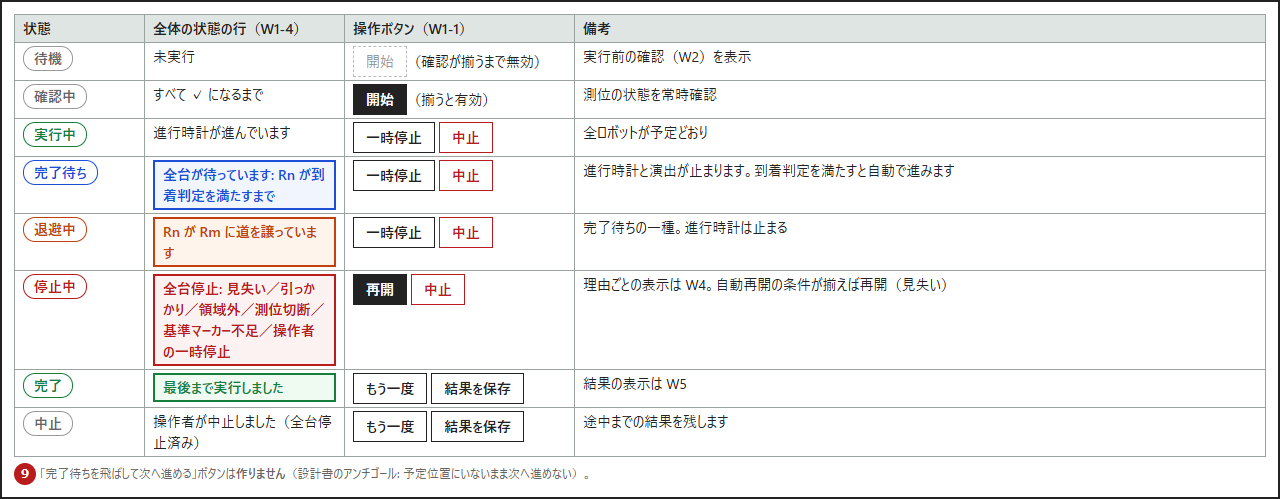
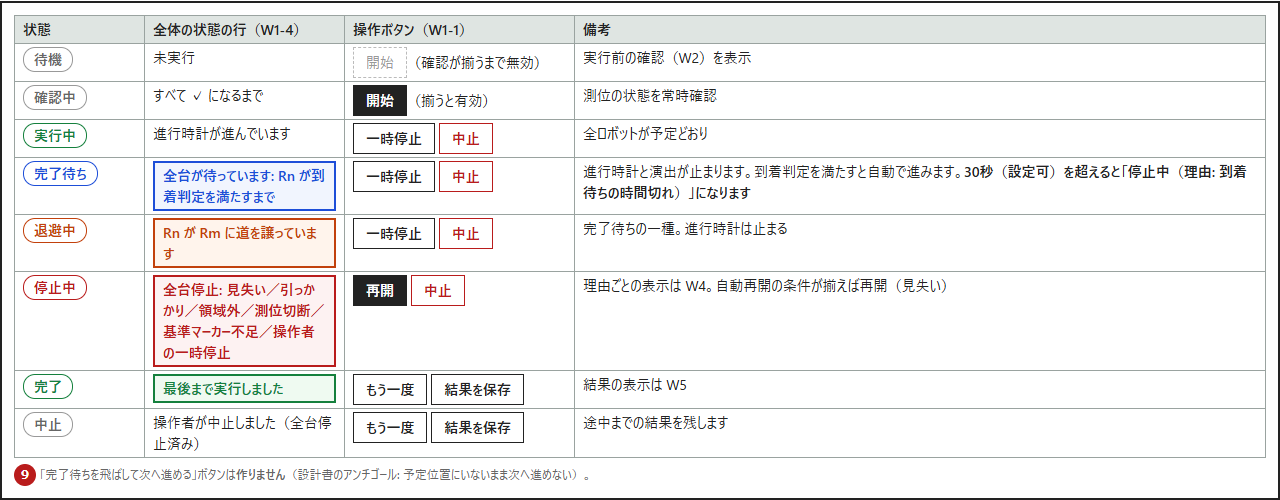
docs(wireframes): reflect review answers and add the screen-usage map (control vs run)

diff --git a/docs/wireframes/s5-run-console.html b/docs/wireframes/s5-run-console.html
@@ -81,7 +81,7 @@
 <div class="note"><b>このワイヤーフレームの範囲:</b> 新しい画面「実行」（<code>/run</code>）、ロボット設定への2項目の追加、シーン画面の導線、展示画面での停止中の扱い。進行時計・退避・異常時の<b>処理そのもの</b>は設計書（8章）のとおりで、ここでは「画面にどう見せ、何を操作できるか」だけを決めます。</div>
 
 <!-- ===================== W1 ===================== -->
-<h2>W1　実行画面（実行中）　1280px</h2>
+<h2>W1　実行画面（完了待ちと見失いが重なった例）　1280px</h2>
 <div class="board w1280" id="w1">
   <div class="nav"><b>シーン実行</b><span>制御</span><span>フロア</span><span>ロボット</span><span>シーン</span><span class="here">実行</span><span>測位</span><span>表示設定</span><span>Bluetooth</span><span class="stop">全台停止</span></div>
 
@@ -189,7 +189,9 @@
     <div class="box"><i class="n">8</i><h3>初期位置とのずれ（✗ のロボットだけ詳しく）</h3>
       <table><tr><th>ロボット</th><th>位置のずれ</th><th>向きのずれ</th><th>対処</th></tr>
         <tr><td>R3</td><td>46mm ✗</td><td>3° ✓</td><td>マップの青い目印へ手で置き直してください</td></tr></table>
-      <div class="small" style="margin-top:6px">マップ上に初期位置の目印（破線の枠）を出し、置き直しの目安にします。実機を自動で初期位置へ動かす機能は作りません（案内のみ）。</div>
+      <div class="box" style="margin-top:8px;border-color:var(--warn)"><i class="n">8b</i><h3>初期位置へ自動で動かす（回答を反映した仮の案。範囲は確認中）</h3>
+        <div class="row"><span class="btn">初期位置へ移動</span><span class="chip warn">初期位置へ移動中</span><span class="small">全台が到着判定を満たすと「開始」が有効になります</span></div>
+        <div class="small" style="margin-top:4px">動かせないとき（直線が壁・家具で塞がれている等）は、この機体を ✗ にして理由を出し、手で置き直す案内に切り替えます。</div></div>
       <div class="small" style="margin-top:6px"><b>校正</b>の確認はS7（実機の校正）で追加します。S5では項目を出しません。</div>
     </div>
   </div>
@@ -203,7 +205,7 @@
     <tr><td><span class="chip idle">待機</span></td><td>未実行</td><td><span class="btn off">開始</span>（確認が揃うまで無効）</td><td>実行前の確認（W2）を表示</td></tr>
     <tr><td><span class="chip idle">確認中</span></td><td>すべて ✓ になるまで</td><td><span class="btn primary">開始</span>（揃うと有効）</td><td>測位の状態を常時確認</td></tr>
     <tr><td><span class="chip run">実行中</span></td><td>進行時計が進んでいます</td><td><span class="btn">一時停止</span> <span class="btn danger">中止</span></td><td>全ロボットが予定どおり</td></tr>
-    <tr><td><span class="chip wait">完了待ち</span></td><td><div class="banner wait" style="padding:2px 8px">全台が待っています: Rn が到着判定を満たすまで</div></td><td><span class="btn">一時停止</span> <span class="btn danger">中止</span></td><td>進行時計と演出が止まります。到着判定を満たすと自動で進みます</td></tr>
+    <tr><td><span class="chip wait">完了待ち</span></td><td><div class="banner wait" style="padding:2px 8px">全台が待っています: Rn が到着判定を満たすまで</div></td><td><span class="btn">一時停止</span> <span class="btn danger">中止</span></td><td>進行時計と演出が止まります。到着判定を満たすと自動で進みます。<b>30秒（設定可）を超えると「停止中（理由: 到着待ちの時間切れ）」になります</b></td></tr>
     <tr><td><span class="chip warn">退避中</span></td><td><div class="banner warn" style="padding:2px 8px">Rn が Rm に道を譲っています</div></td><td><span class="btn">一時停止</span> <span class="btn danger">中止</span></td><td>完了待ちの一種。進行時計は止まる</td></tr>
     <tr><td><span class="chip halt">停止中</span></td><td><div class="banner halt" style="padding:2px 8px">全台停止: 見失い／引っかかり／領域外／測位切断／基準マーカー不足／操作者の一時停止</div></td><td><span class="btn primary">再開</span> <span class="btn danger">中止</span></td><td>理由ごとの表示は W4。自動再開の条件が揃えば再開（見失い）</td></tr>
     <tr><td><span class="chip run">完了</span></td><td><div class="banner ok" style="padding:2px 8px">最後まで実行しました</div></td><td><span class="btn">もう一度</span> <span class="btn">結果を保存</span></td><td>結果の表示は W5</td></tr>
@@ -278,20 +280,20 @@
       <span class="btn">この地図を展示に出す</span><span class="btn">展示を再生</span><span class="btn">展示を終了</span><span class="btn">展示画面を開く</span><span class="btn">位置合わせ表示を開く</span><span class="btn primary">実行画面を開く ▸</span></div>
     <div class="small" style="margin-top:4px">実行中は、展示画面の時刻が進行時計になります（手動の展示再生は、実行していないときだけ使えます）。</div>
   </div>
-  <div class="small" style="margin-top:6px"><i class="n" style="position:static;display:inline-block">15</i> 実行中にシーンを編集した場合: 実行は開始時の内容で最後まで進みます。編集画面には「実行中（開始時の内容で実行しています）」の帯を出します。</div>
+  <div class="small" style="margin-top:6px"><i class="n" style="position:static;display:inline-block">15</i> <b>実行中はシーンを編集できません</b>。シーン画面は読み取り専用になり、上部に「シーンを実行中です。編集するには実行を終了してください（実行画面を開く ▸）」の帯を出します。実行を終了（完了・中止）すると編集できます。</div>
 </div>
 
 <!-- ===================== W9 ===================== -->
-<h2>W9　展示画面（50インチ）での全台停止・完了待ちの見せ方　2案</h2>
+<h2>W9　展示画面（50インチ）での全台停止・完了待ちの見せ方　→ 案Bに決定</h2>
 <div class="cols2">
   <div>
-    <div class="cap">案A（作りが少なく、来場者に見えない）</div>
+    <div class="cap">案A（不採用: 何も出さない）</div>
     <div class="board" style="height:200px;background:#000;color:#aaa;width:100%">
       <div class="small" style="color:#aaa"><i class="n">16</i>画面は止まっているだけ（演出と時計が止まる）。停止の理由は操作画面だけで見ます。</div>
     </div>
   </div>
   <div>
-    <div class="cap">案B（画面下中央に小さく状態を出す）</div>
+    <div class="cap">案B（採用: 画面下中央に小さく状態を出す）</div>
     <div class="board" style="height:200px;background:#000;color:#fff;width:100%">
       <div style="position:absolute;left:50%;bottom:18px;transform:translateX(-50%);border:1px solid #888;padding:2px 14px;color:#ddd">全台停止中（調整中です）</div>
       <div class="small" style="color:#aaa">四隅は空白のまま。文字は基準マーカーに近づけません。</div>
@@ -299,15 +301,43 @@
   </div>
 </div>
 
-<h2>確認したい点</h2>
+<h2>W10　画面の使い分け（既存の「制御」画面の自動ルートとの切り分け）</h2>
+<div class="board w1280" id="w10">
+  <table>
+    <tr><th style="width:190px">やりたいこと</th><th style="width:230px">使う画面</th><th style="width:230px">動かし方</th><th style="width:90px">測位</th><th style="width:200px">対象のロボット</th><th>ほかの方法との同時利用</th></tr>
+    <tr><td>手で操縦する</td><td>制御（<code>/control</code>）の個別制御・複数制御</td><td>人が操作（前進・後退・旋回・PWM）</td><td>不要</td><td>選んだ機体（手動モード）</td><td>シーン実行中は操作できません</td></tr>
+    <tr><td>簡易デモ（時間どおりに合流する決まった動き）</td><td>制御（<code>/control</code>）の「自動ルート」<b>（いまのまま残す）</b></td><td>時間だけで動かす（開ループ）</td><td>不要</td><td>自動モードにした機体</td><td>シーン実行中は開始できません</td></tr>
+    <tr><td><b>編集したシーンを実行する</b></td><td><b>実行（<code>/run</code>）</b>（新規）</td><td>測位で補正（閉ループ）＋完了待ち＋退避</td><td>必須</td><td>シーンの行に割り当てたロボット（開始時に自動で制御を引き継ぐ）</td><td>手動操作・簡易デモの実行中は開始できません</td></tr>
+    <tr><td>非常停止</td><td>ヘッダーの「全台停止」（全画面共通）</td><td>すべての方式を止める</td><td>—</td><td>全台</td><td>いつでも。シーン実行は「停止中（全台停止）」になり、再開か中止を選ぶ</td></tr>
+  </table>
+  <div class="cols2" style="margin-top:10px">
+    <div class="box"><i class="n">17</i><h3>制御画面の「自動ルート」パネル（シーン実行中）</h3>
+      <div class="row"><span class="btn off">開始</span><span class="btn off">停止</span></div>
+      <div class="banner wait" style="margin-top:6px">シーン実行中のため使えません　<span class="btn" style="font-weight:400">実行画面を開く ▸</span></div>
+    </div>
+    <div class="box"><i class="n">18</i><h3>実行画面の開始ボタン（簡易デモ実行中）</h3>
+      <div class="row"><span class="btn off">開始</span></div>
+      <div class="banner wait" style="margin-top:6px">簡易ルートの実行中は開始できません　<span class="btn" style="font-weight:400">制御画面で停止 ▸</span></div>
+    </div>
+  </div>
+  <div class="small" style="margin-top:6px">簡易デモは設計書どおり残し（<code>RouteEngine</code> は変更しない）、画面の移動もしません。新しく作るのは「排他の判定」と、上の2つの案内表示だけです。</div>
+</div>
+
+<h2>決まったこと（回答をワイヤーフレームに反映済み）</h2>
 <ol class="legend">
-  <li><b>(1) 画面の置き場所</b>: ナビに新しい項目「実行」（<code>/run</code>）を追加する案（図のとおり）。シーン画面に同居させる案もあるが、編集の画面が混み合うため、分ける案を推奨します。</li>
-  <li><b>(2) 到着待ちの時間切れ（W3 の「完了待ち」の行）</b>: あるロボットがいつまでも到着判定を満たさない場合、永久に全台が待つのか、一定時間（初期値 30秒、設定可）で「停止中」にして操作者の判断を待つのか。後者を推奨します（失敗を成功扱いにしない・放置しない）。</li>
-  <li><b>(3) 展示との連動（W8-14）</b>: 実行中は展示画面の時刻を進行時計にする（図のとおり）。実行していないときだけ、S4の手動再生を使えます。</li>
-  <li><b>(4) 展示画面の停止表示（W9）</b>: 案A（何も出さない）／案B（下中央に小さく表示）。</li>
-  <li><b>(5) 結果の保存（W5-11）</b>: 画面に表示するだけか、「結果を保存」で JSON を取り出せるようにするか（保存先は <code>data/runs/</code> に自動保存せず、ダウンロードのみを推奨）。</li>
-  <li><b>(6) 実行中の編集（W8-15）</b>: 実行は開始時の内容で最後まで進める（図のとおり）か、実行中は編集を禁止するか。</li>
-  <li><b>(7) 初期位置の案内（W2-8）</b>: 実機を自動で初期位置へ動かさず、置き直しの案内だけにする（図のとおり）。S7 以降で自動化を検討します。</li>
+  <li>到着待ちの時間切れ: 一定時間（初期値30秒、設定可）で「停止中（理由: 到着待ちの時間切れ）」にして、再開か中止を待つ（W3）。</li>
+  <li>展示との連動: 実行中は展示画面の時刻＝進行時計。実行していないときだけ、手動の展示再生を使える（W8）。</li>
+  <li>展示画面の停止表示: 案B（下中央に小さく表示）に決定（W9）。</li>
+  <li>結果: 画面に表示し、「結果を保存」で JSON をダウンロード。サーバーへは自動保存しない（W5）。</li>
+  <li>実行中の編集: <b>禁止</b>（W8の帯のとおり、シーン画面は読み取り専用になる）。</li>
+</ol>
+
+<h2>追加で確認したい点（切り分けの整理のため）</h2>
+<ol class="legend">
+  <li><b>(A) 画面の使い分け（W10）</b>: 簡易デモは「制御」画面にそのまま残し、排他の判定と案内だけ足す案（推奨）／簡易デモを「実行」画面のタブへ移す案。</li>
+  <li><b>(B) ロボットの制御の引き継ぎ</b>: シーンの実行を開始すると、対象のロボットを自動で「自動モード」にして制御を引き継ぎ、終了・中止で「手動モード」へ戻す（推奨）／事前に「制御」画面で自動モードにしておく。</li>
+  <li><b>(C) シーンに入っていないロボットが盤面にいる場合</b>: 実行前の確認で警告し、動かない障害物として扱う（推奨）／確認の ✗ にして開始できなくする／無視する。</li>
+  <li><b>(D) 初期位置へ自動で動かす（W2）</b>: 回答では「自動で動かす」を選ばれました。この場合に必要になる動きの範囲を決めさせてください（W2の下部の案）。</li>
 </ol>
 </body>
 </html>
